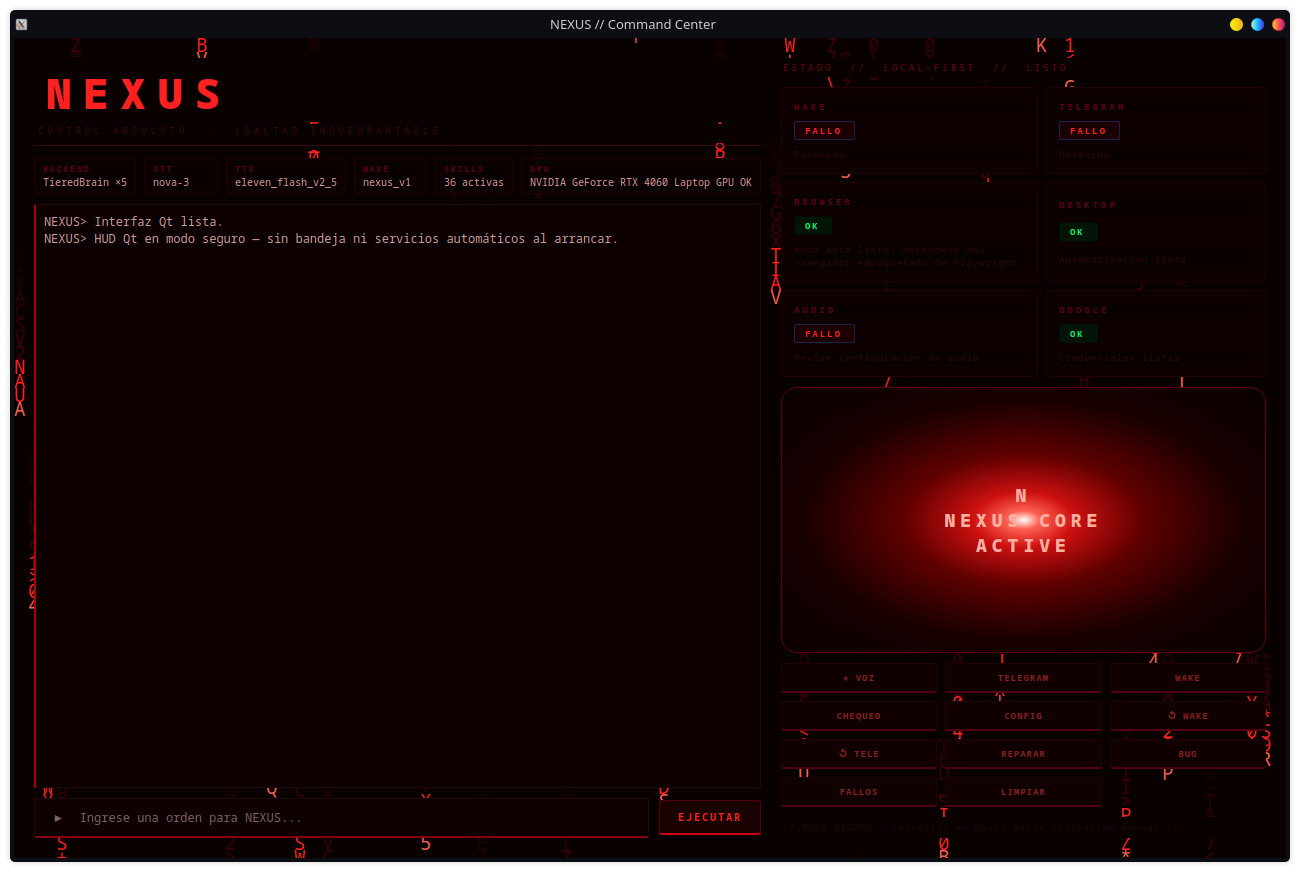
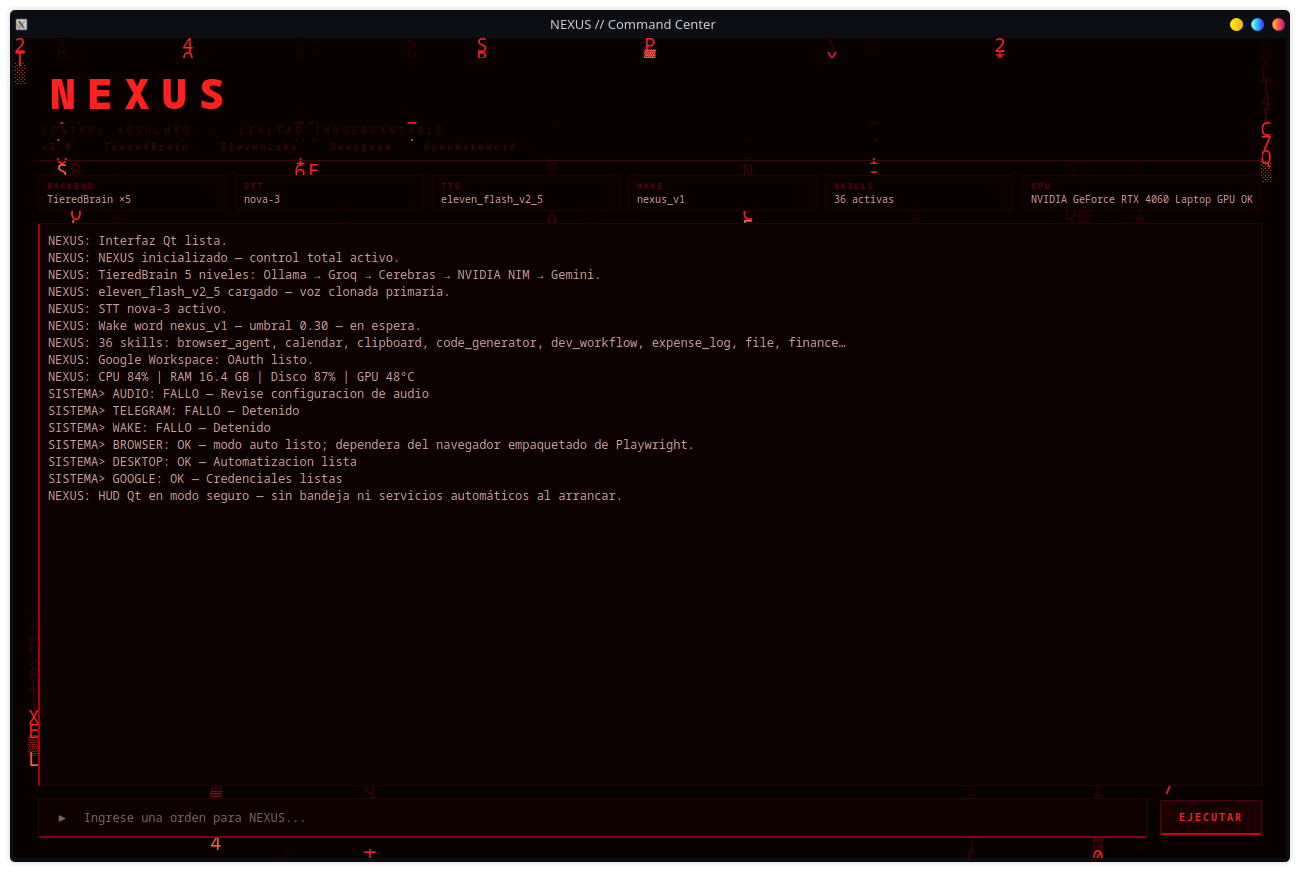
Update HUD description and screenshot to match the rebuilt single-panel design
The HUD was rebuilt as a single full-width panel (title, backend bar,
one big log, input) instead of a two-column layout with status cards
and a button grid. Operational controls moved to the system tray menu.
Updated both the description and the screenshot to reflect the actual
current implementation.

diff --git a/README.md b/README.md
@@ -69,18 +69,17 @@ NEXUS is used daily as an actual productivity and system-management layer, not a
 
 ## Desktop HUD
 
-The operator console is a native desktop control center that runs alongside the voice pipeline — void-black background, blood-red accents, an animated red "digital rain" effect behind the panels.
+A single-panel operator console that runs alongside the voice pipeline — void-black background, blood-red accents, an animated red "digital rain" effect behind the panel.
 
 ![NEXUS desktop HUD](assets/nexus_hud.png)
 
 **What it shows:**
-- Real-time conversation log (user and NEXUS turns)
+- Title, tagline, and a small tag line naming the active stack
 - A live backend bar — active LLM tier count, current STT and TTS models, wake word model, number of loaded skills, GPU status — read directly from configuration and hardware at runtime, not hardcoded
-- An animated status core for the local pipeline
-- Status cards for each subsystem — wake word listener, Telegram bot, browser automation, desktop automation, audio devices, Google credentials
-- System tray integration for quick access without keeping a window open
+- A single full-width log combining a real boot sequence (each line reflects actual configured state, not placeholder text) with the ongoing conversation
+- A command input at the bottom
 
-Detailed system resource usage (CPU/RAM/disk/GPU) is queried on demand through voice or Telegram (`estado del sistema`, `cómo está el equipo`) rather than rendered as a permanent gauge in the HUD.
+Operational controls (voice round, Telegram start/stop, wake word restart, self-check, settings, bug reports) live in the system tray menu rather than as buttons in the main window — the main panel stays focused on what NEXUS is doing, not on how to operate it. Detailed system resource usage (CPU/RAM/disk/GPU) is queried on demand through voice or Telegram rather than rendered as a permanent gauge.
 
 ---
 

diff --git a/docs/ARCHITECTURE.md b/docs/ARCHITECTURE.md
@@ -125,15 +125,14 @@ Switches CPU/RAM scheduling priority between profiles (work, streaming, focus, n
 
 ### HUD (Desktop)
 
-A native control center that runs alongside the voice pipeline, styled after the same void-black/blood-red identity used throughout, with an animated red "digital rain" background behind the panels:
+A single-panel control center, styled after the void-black/blood-red identity used throughout, with an animated red "digital rain" background behind the panel:
 
-- real-time conversation log
+- title, tagline, and a small tag line naming the active stack
 - a live backend bar (LLM tier count, STT/TTS models, wake model, skill count, GPU status) read from configuration and hardware at runtime
-- an animated status core for the local pipeline
-- status cards per subsystem (audio, Telegram, wake word, browser automation, desktop automation, Google credentials)
-- system tray integration
+- one full-width log combining a real boot sequence with the ongoing conversation
+- a command input at the bottom
 
-Detailed system resource usage (CPU, RAM, disk, GPU) is queried on demand through voice or Telegram rather than rendered as a permanent HUD gauge.
+Operational controls (voice round, Telegram start/stop, wake word restart, self-check, settings) live in the system tray menu, not as buttons in the main window — the panel stays focused on what NEXUS is doing. Detailed system resource usage (CPU, RAM, disk, GPU) is queried on demand through voice or Telegram rather than rendered as a permanent HUD gauge.
 
 ### Telegram
 